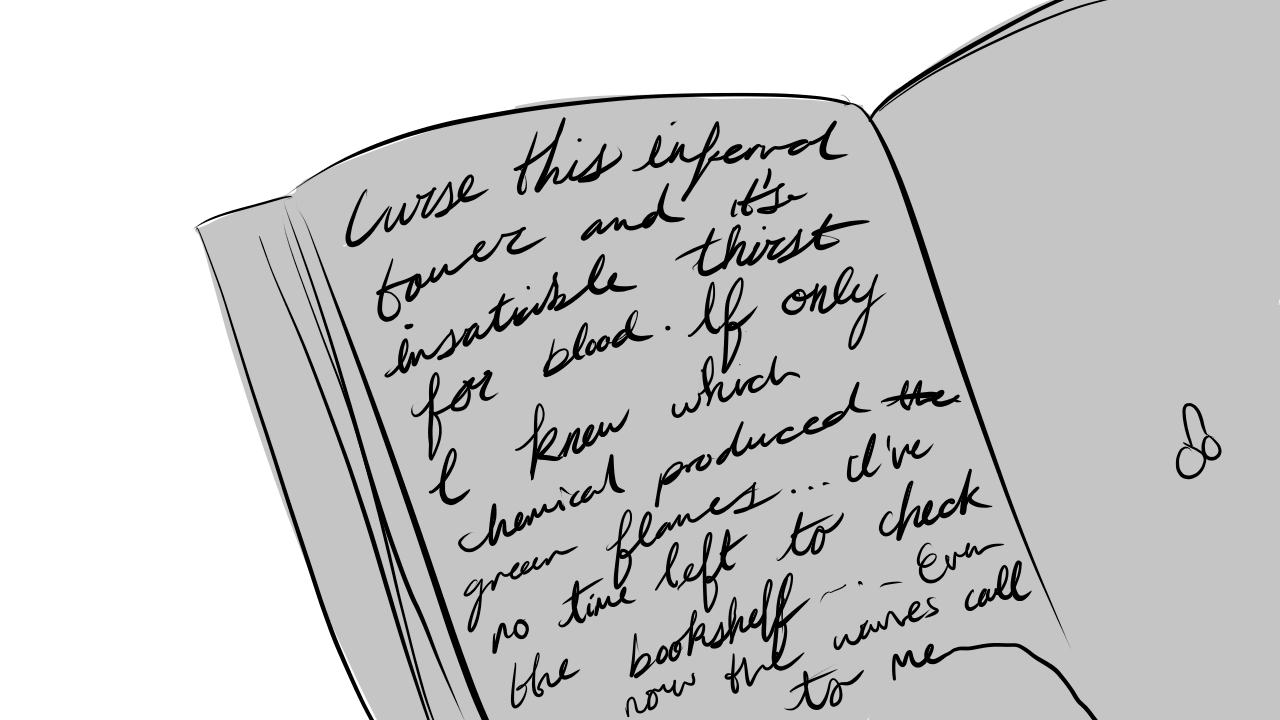
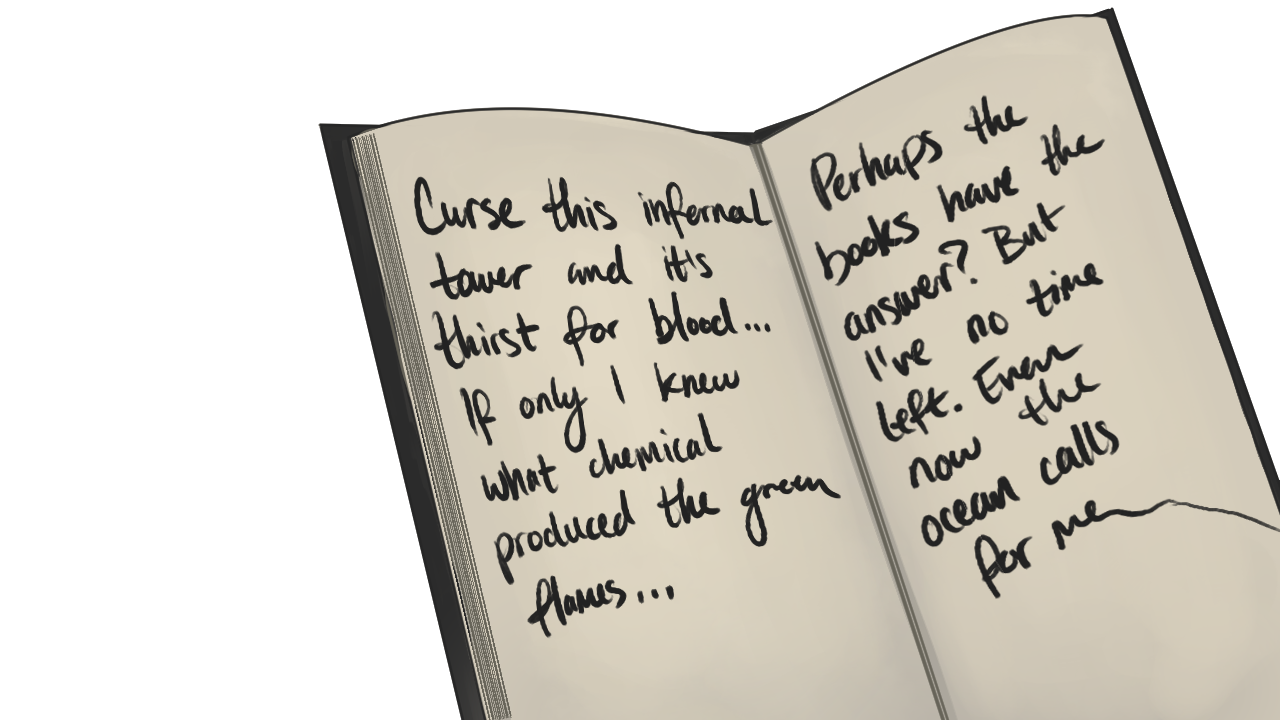
Chemical hitboxes set up

diff --git a/src/scenes/Ritual/Cabinet.js b/src/scenes/Ritual/Cabinet.js
@@ -4,7 +4,7 @@ class Cabinet extends Phaser.Scene {
     }
 
     preload(){
-        // scales images
+        // images
 
         // audio
         this.load.audio('unlock', './assets/sfx/doorUnlock2.wav');
@@ -20,7 +20,66 @@ class Cabinet extends Phaser.Scene {
         this.unlock = this.sound.add('unlock', {volume: 0.75});
         
         /////////////////////////////////////////////////////////////////////////////////////////////////////////
-        // objects
+        // chemicals images
+        // bleachIm
+        this.bleachIm = this.add.image(640, 360, 'bleach');
+        this.bleachIm.setDisplaySize(1280, 720);
+        this.bleachIm.setVisible(true);
+        // bleach hitbox
+        this.bleach = this.add.sprite(900, 220, 'hitbox');
+        this.bleach.setDisplaySize(280, 320);
+        this.bleach.setVisible(true);
+        this.bleach.setInteractive({
+            useHandCursor: true
+        });
+
+        // fertilizer
+        this.fertilizerIm = this.add.image(640, 360, 'fertilizer');
+        this.fertilizerIm.setDisplaySize(1280, 730);
+        this.fertilizerIm.setVisible(true);
+        // fertilizer hitbox
+        this.fertilizer = this.add.sprite(320, 220, 'hitbox');
+        this.fertilizer.setDisplaySize(200, 280);
+        this.fertilizer.setVisible(true);
+        this.fertilizer.setInteractive({
+            useHandCursor: true
+        });
+
+        // insect im
+        this.insecticideIm = this.add.image(640, 362, 'insecticide');
+        this.insecticideIm.setDisplaySize(1280, 720);
+        this.insecticideIm.setVisible(true);
+        // insect hitbox
+        this.insecticide = this.add.sprite(638, 235, 'hitbox');
+        this.insecticide.setDisplaySize(130, 260);
+        this.insecticide.setVisible(true);
+        this.insecticide.setInteractive({
+            useHandCursor: true
+        });
+
+        // salt im
+        this.saltIm = this.add.image(640, 360, 'salt');
+        this.saltIm.setDisplaySize(1280, 720);
+        this.saltIm.setVisible(true);
+        // salt hitbox
+        this.salt = this.add.sprite(305, 557, 'hitbox');
+        this.salt.setDisplaySize(170, 250);
+        this.salt.setVisible(true);
+        this.salt.setInteractive({
+            useHandCursor: true
+        });
+
+        // candle im
+        this.candleIm = this.add.image(640, 360, 'candles');
+        this.candleIm.setDisplaySize(1280, 720);
+        this.candleIm.setVisible(true);
+        // candle hitbox
+        this.candle = this.add.sprite(770, 625, 'hitbox');
+        this.candle.setDisplaySize(505, 130);
+        this.candle.setVisible(true);
+        this.candle.setInteractive({
+            useHandCursor: true
+        });
 
         /////////////////////////////////////////////////////////////////////////////////////////////////////////
         // close

diff --git a/src/scenes/Ritual/Bookshelf.js b/src/scenes/Ritual/Bookshelf.js
@@ -6,6 +6,7 @@ class Bookshelf extends Phaser.Scene {
     preload(){
         // scales images
         this.load.image('books', './assets/puzzle5/closeups/ritualNorth_bookshelf.png');
+        this.load.image('firebook', './assets/puzzle5/bookshelf/ritualNorth_firebook.png');
 
         // audio
         this.load.audio('unlock', './assets/sfx/doorUnlock2.wav');
@@ -22,6 +23,17 @@ class Bookshelf extends Phaser.Scene {
         
         /////////////////////////////////////////////////////////////////////////////////////////////////////////
         // objects
+        // firebook
+        this.firebookHit = this.add.sprite(1155, 405, 'hitbox');
+        this.firebookHit.setDisplaySize(70, 500);
+        this.firebookHit.setVisible(true);
+        this.firebookHit.setInteractive({
+            useHandCursor: true
+        });
+        // dark
+        this.firebook = this.add.image(640, 360, 'firebook');
+        this.firebook.setDisplaySize(1280, 720);
+        this.firebook.setVisible(false);
 
         /////////////////////////////////////////////////////////////////////////////////////////////////////////
         // close
@@ -60,14 +72,32 @@ class Bookshelf extends Phaser.Scene {
                 this.scene.wake("ritualNorth");
             }
         });
+
+        /////////////////////////////////////////////////////////////////////////////////////////////////////////
+        // books
+        this.firebookHit.on('pointerdown', () => {
+            if(this.textTimer == 0){
+                this.firebook.setVisible(true);
+                this.textTimer = 1;
+            }
+        });
         /////////////////////////////////////////////////////////////////////////////////////////////////////////
         // text timers
         if(this.textTimer > 0 && this.textTimer < 150) {
             this.textTimer += 1;
+
+            // hide other hitboxes
+            this.firebookHit.setVisible(false);
         } 
         else if(this.textTimer >= 150){
             // hide text
             this.textTimer = 0;
+
+            // hide books
+            this.firebook.setVisible(false);
+
+            // show hitboxes
+            this.firebookHit.setVisible(true);
         }
 
         /////////////////////////////////////////////////////////////////////////////////////////////////////////

diff --git a/src/scenes/Ritual/RitualEast.js b/src/scenes/Ritual/RitualEast.js
@@ -10,6 +10,13 @@ class RitualEast extends Phaser.Scene {
         this.load.image('comboRitual', './assets/puzzle5/overlays/ritualEast_lock.png');
         this.load.image('cabinetRitual', './assets/puzzle5/cabinet/ritualEast_cabinet.png');
 
+        // cabinet
+        this.load.image('bleach', './assets/puzzle5/cabinet/ritualEast_bleach.png');
+        this.load.image('candles', './assets/puzzle5/cabinet/ritualEast_candles.png');
+        this.load.image('fertilizer', './assets/puzzle5/cabinet/ritualEast_fertilizer.png');
+        this.load.image('insecticide', './assets/puzzle5/cabinet/ritualEast_insecticide.png');
+        this.load.image('salt', './assets/puzzle5/cabinet/ritualEast_salt.png');
+
         this.load.image('hitbox', './assets/HitBox2.png');
     }
 
@@ -155,7 +162,7 @@ class RitualEast extends Phaser.Scene {
 
                 if(unlocked == 1){
                     this.textTimer = 1;
-                    this.timeVar = 50;
+                    this.timeVar = 20;
                     this.scene.switch("ritualCabinet");
                 }
             });
@@ -178,6 +185,17 @@ class RitualEast extends Phaser.Scene {
                 this.digit2.interText.setVisible(false);
                 this.digit3.interText.setVisible(false);
             }
+        }
+        if(this.textTimerBox >= 250){
+            // hide text
+            //this.box.interText.setVisible(false);
+            this.combo.setVisible(false);
+            this.textTimerBox = 0;
+            this.digit1.interText.setVisible(false);
+            this.digit2.interText.setVisible(false);
+            this.digit3.interText.setVisible(false);
+            combo = '';
+            pos = 0;
         }
 
         /////////////////////////////////////////////////////////////////////////////////////////////////////////

diff --git a/src/scenes/Ritual/RitualWest.js b/src/scenes/Ritual/RitualWest.js
@@ -117,7 +117,7 @@ class RitualWest extends Phaser.Scene {
                 else if (this.textTimer == 0) {
                     this.journal.setVisible(true);
                     this.textTimer = 1;
-                    this.timeVar = 150;
+                    this.timeVar = 250;
                 }
             });
         }
